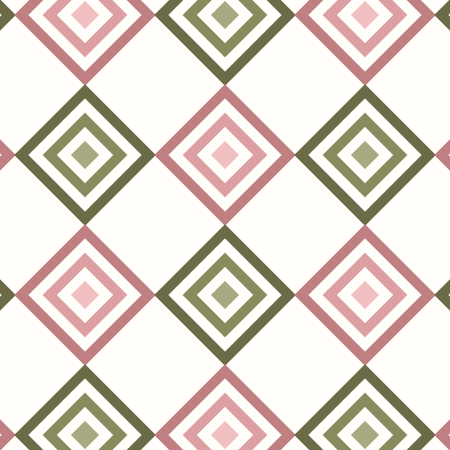
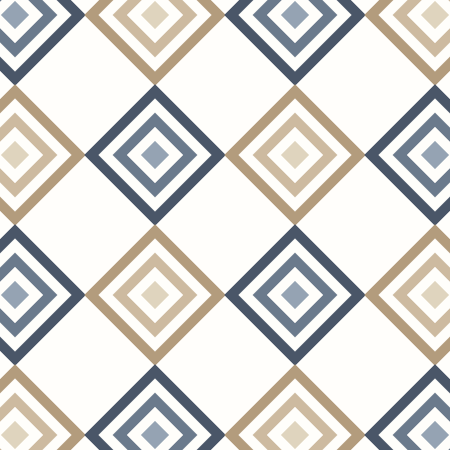
Edit diamond-pattern change color palette to be more muted update the image used on the preview card in order to be more visually pleasing, professional, and balanced

diff --git a/illustrations/diamond-pattern/style.css b/illustrations/diamond-pattern/style.css
@@ -13,12 +13,12 @@
     /* Light off-white background */
     /* Light off-white background */
     --cream: #FFFEFB;
-    --pink-dark: #C08081;
-    --pink-medium: #DDA0A2;
-    --pink-light: #F0C0C1;
-    --olive-dark: #6B6B47;
-    --olive-medium: #8A8A5F;
-    --olive-light: #A8A881;
+    --pink-dark: #4A5668;
+    --pink-medium: #6B7A8C;
+    --pink-light: #95A3B3;
+    --olive-dark: #B39C7D;
+    --olive-medium: #CDBAA0;
+    --olive-light:  #DFD4BE;
 }
 
 /* GENERAL */
